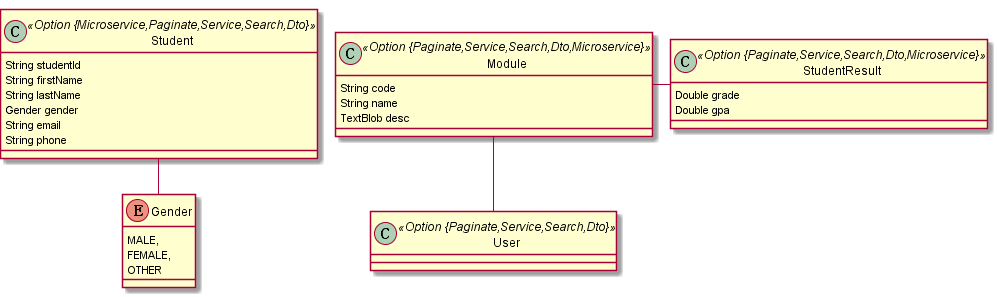
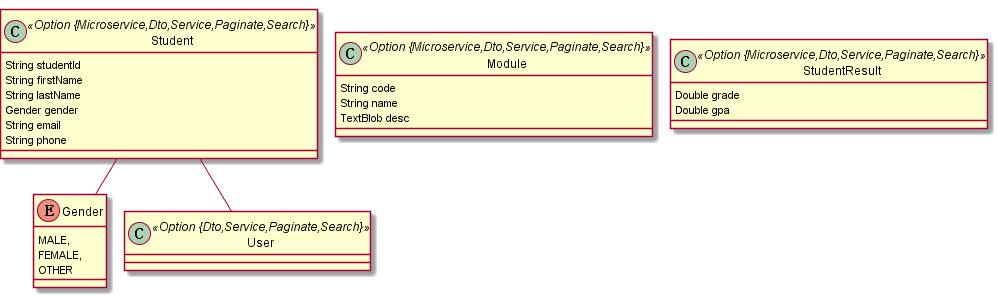
Initial application generated by JHipster-5.8.1

diff --git a/svcStudent/src/main/java/cc/orangejuice/srs/student/service/dto/StudentDTO.java b/svcStudent/src/main/java/cc/orangejuice/srs/student/service/dto/StudentDTO.java
@@ -30,6 +30,10 @@ public class StudentDTO implements Serializable {
     private String phone;
 
 
+    private Long usernameId;
+
+    private String usernameLogin;
+
     public Long getId() {
         return id;
     }
@@ -86,6 +90,22 @@ public class StudentDTO implements Serializable {
         this.phone = phone;
     }
 
+    public Long getUsernameId() {
+        return usernameId;
+    }
+
+    public void setUsernameId(Long userId) {
+        this.usernameId = userId;
+    }
+
+    public String getUsernameLogin() {
+        return usernameLogin;
+    }
+
+    public void setUsernameLogin(String userLogin) {
+        this.usernameLogin = userLogin;
+    }
+
     @Override
     public boolean equals(Object o) {
         if (this == o) {
@@ -117,6 +137,8 @@ public class StudentDTO implements Serializable {
             ", gender='" + getGender() + "'" +
             ", email='" + getEmail() + "'" +
             ", phone='" + getPhone() + "'" +
+            ", username=" + getUsernameId() +
+            ", username='" + getUsernameLogin() + "'" +
             "}";
     }
 }

diff --git a/svcStudent/src/main/java/cc/orangejuice/srs/student/domain/Student.java b/svcStudent/src/main/java/cc/orangejuice/srs/student/domain/Student.java
@@ -53,6 +53,11 @@ public class Student implements Serializable {
     @Column(name = "phone", nullable = false)
     private String phone;
 
+    @OneToOne(optional = false)    @NotNull
+
+    @JoinColumn(unique = true)
+    private User username;
+
     // jhipster-needle-entity-add-field - JHipster will add fields here, do not remove
     public Long getId() {
         return id;
@@ -138,6 +143,19 @@ public class Student implements Serializable {
 
     public void setPhone(String phone) {
         this.phone = phone;
+    }
+
+    public User getUsername() {
+        return username;
+    }
+
+    public Student username(User user) {
+        this.username = user;
+        return this;
+    }
+
+    public void setUsername(User user) {
+        this.username = user;
     }
     // jhipster-needle-entity-add-getters-setters - JHipster will add getters and setters here, do not remove
 

diff --git a/svcStudent/src/test/java/cc/orangejuice/srs/student/web/rest/StudentResourceIntTest.java b/svcStudent/src/test/java/cc/orangejuice/srs/student/web/rest/StudentResourceIntTest.java
@@ -3,6 +3,7 @@ package cc.orangejuice.srs.student.web.rest;
 import cc.orangejuice.srs.student.SvcStudentApp;
 
 import cc.orangejuice.srs.student.domain.Student;
+import cc.orangejuice.srs.student.domain.User;
 import cc.orangejuice.srs.student.repository.StudentRepository;
 import cc.orangejuice.srs.student.repository.search.StudentSearchRepository;
 import cc.orangejuice.srs.student.service.StudentService;
@@ -130,6 +131,11 @@ public class StudentResourceIntTest {
             .gender(DEFAULT_GENDER)
             .email(DEFAULT_EMAIL)
             .phone(DEFAULT_PHONE);
+        // Add required entity
+        User user = UserResourceIntTest.createEntity(em);
+        em.persist(user);
+        em.flush();
+        student.setUsername(user);
         return student;
     }
 

diff --git a/svcStudent/src/main/java/cc/orangejuice/srs/student/service/mapper/StudentMapper.java b/svcStudent/src/main/java/cc/orangejuice/srs/student/service/mapper/StudentMapper.java
@@ -8,10 +8,15 @@ import org.mapstruct.*;
 /**
  * Mapper for the entity Student and its DTO StudentDTO.
  */
-@Mapper(componentModel = "spring", uses = {})
+@Mapper(componentModel = "spring", uses = {UserMapper.class})
 public interface StudentMapper extends EntityMapper<StudentDTO, Student> {
 
+    @Mapping(source = "username.id", target = "usernameId")
+    @Mapping(source = "username.login", target = "usernameLogin")
+    StudentDTO toDto(Student student);
 
+    @Mapping(source = "usernameId", target = "username")
+    Student toEntity(StudentDTO studentDTO);
 
     default Student fromId(Long id) {
         if (id == null) {

diff --git a/docker-compose/README-DOCKER-COMPOSE.md b/docker-compose/README-DOCKER-COMPOSE.md
@@ -1,0 +1,25 @@
+# JHipster generated Docker-Compose configuration
+
+## Usage
+
+Launch all your infrastructure by running: `docker-compose up -d`.
+
+## Configured Docker services
+
+### Service registry and configuration server:
+- [JHipster Registry](http://localhost:8761)
+
+### Applications and dependencies:
+- svcStudent (microservice application)
+- svcStudent's mysql database
+- svcUnivCourseModule (microservice application)
+- svcUnivCourseModule's mysql database
+- svcStudentResult (microservice application)
+- svcStudentResult's mysql database
+- cloudGateway (gateway application)
+- cloudGateway's mysql database
+- cloudAuth (uaa application)
+- cloudAuth's mysql database
+
+### Additional Services:
+
